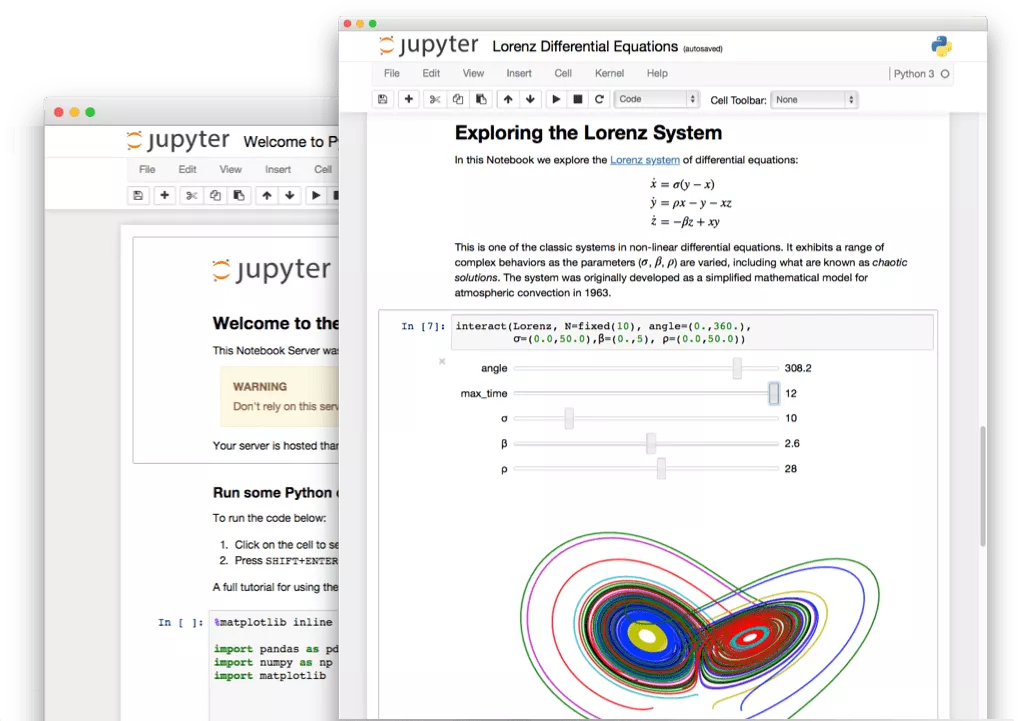
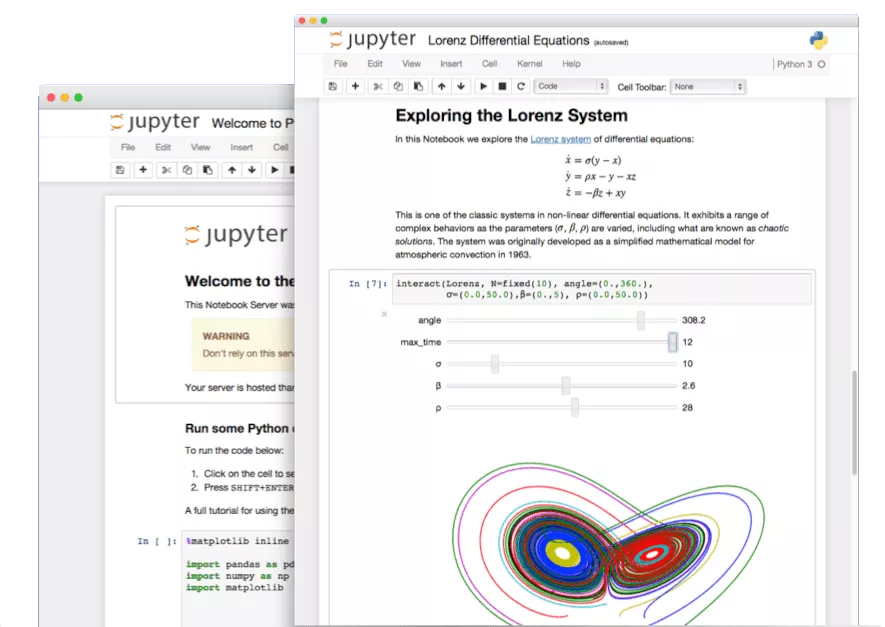
Optimized notebook homepage image

diff --git a/index.html b/index.html
@@ -50,8 +50,8 @@ notebook:
   image:
     alt: example notebook of Lorenz differential equations
     src: assets/jupyterpreview
-    width: 1018
-    height: 721
+    width: 885
+    height: 627
   buttons:
   - class:
     href: try
